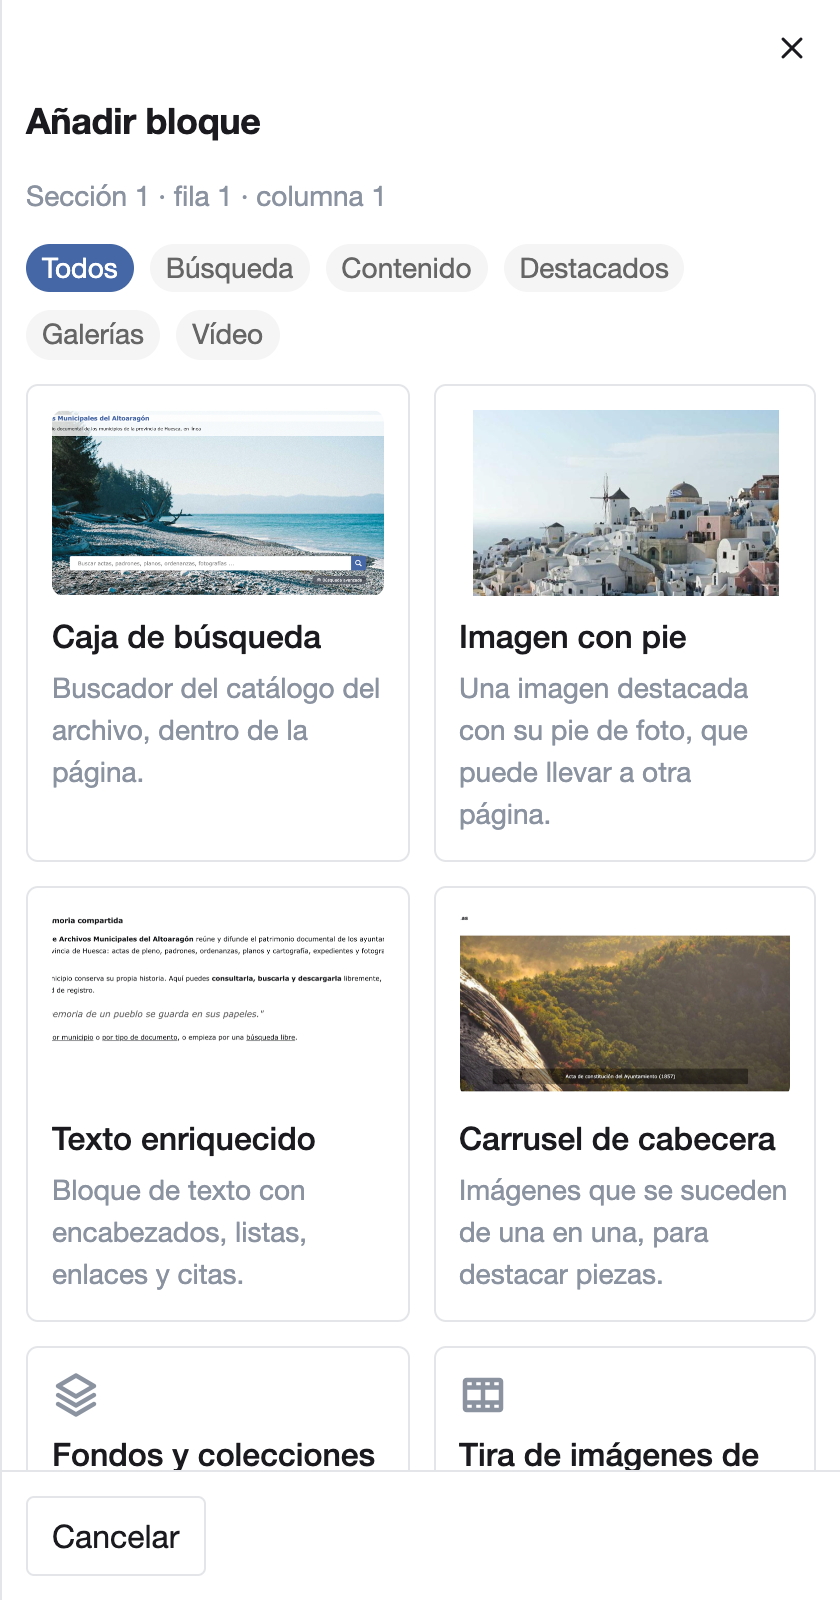
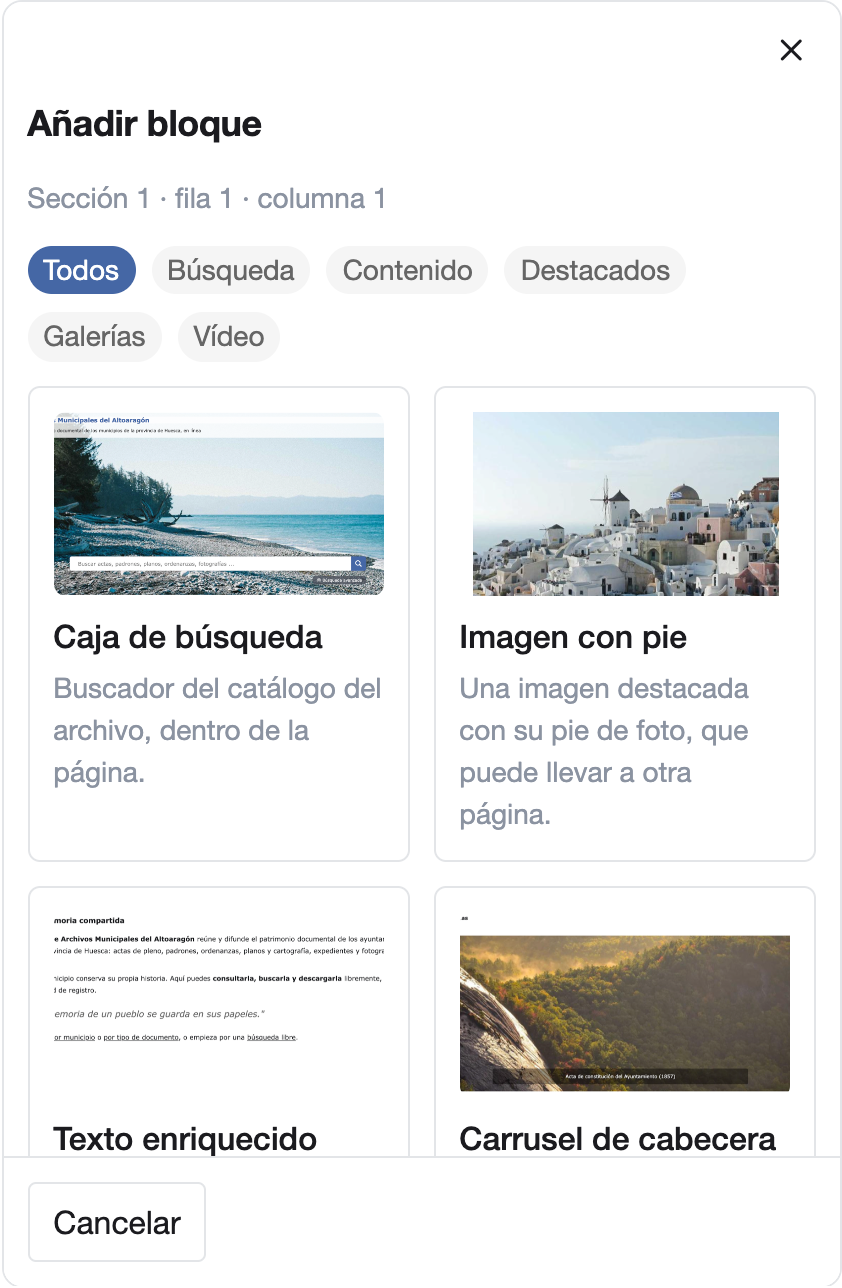
docs(user-guide): capturas del portal con el recorte nuevo y pintadas a su anchura
Las capturas del portal se regeneran con nuba-capture y cada línea de imagen
lleva el atributo width con la anchura CSS de su captura. El texto alternativo
de nueve imágenes describe solo lo que muestra el encuadre nuevo.

diff --git a/docs/user-guide/diffusion-portal/publish.md b/docs/user-guide/diffusion-portal/publish.md
@@ -18,7 +18,7 @@ ordenador.
 3. Arriba, pulsa **Móvil**, **Tableta** o **Escritorio**. La página se dibuja con el ancho de ese dispositivo: 375,
    768 o 1280 píxeles. La pestaña se abre en **Escritorio**.
 
-    ![Los botones Móvil, Tableta y Escritorio de la vista previa, con Escritorio activo.](../../assets/screenshots/es/diffusion-portal/publish/device-preview.png)
+    ![Los botones Móvil, Tableta y Escritorio de la vista previa, con Escritorio activo.](../../assets/screenshots/es/diffusion-portal/publish/device-preview.png){ width="251" }
 
 4. Si haces más cambios en el editor, recarga la pestaña de la vista previa para verlos. Al recargarla, vuelve a
    **Escritorio**.
@@ -36,7 +36,7 @@ buscar como lo haría un visitante, publica la página y abre su dirección púb
 2. Pulsa **Publicar**, en la barra de arriba del editor.
 3. Sale el aviso «¡Publicado! Los visitantes ya ven tus cambios.».
 
-    ![El aviso «¡Publicado!» y el estado Publicada de la página.](../../assets/screenshots/es/diffusion-portal/publish/published.png)
+    ![El aviso «¡Publicado!», con el texto «Los visitantes ya ven tus cambios».](../../assets/screenshots/es/diffusion-portal/publish/published.png){ width="415" }
 
 4. El estado de la página pasa a **Publicada** y el botón **Publicar** desaparece hasta que hagas otro cambio.
 
@@ -44,11 +44,11 @@ buscar como lo haría un visitante, publica la página y abre su dirección púb
 
 1. Pulsa **Más acciones**, el último botón de la barra del editor, a la derecha de **Vista previa**.
 
-    ![El menú Más acciones desplegado.](../../assets/screenshots/es/diffusion-portal/publish/more-actions.png)
+    ![El menú Más acciones desplegado.](../../assets/screenshots/es/diffusion-portal/publish/more-actions.png){ width="367" }
 
 2. Pulsa **Copiar dirección pública**. Sale el aviso «Dirección pública copiada.».
 
-    ![El aviso «Dirección pública copiada.».](../../assets/screenshots/es/diffusion-portal/publish/address-copied.png)
+    ![El aviso «Dirección pública copiada.».](../../assets/screenshots/es/diffusion-portal/publish/address-copied.png){ width="276" }
 
 3. Pega la dirección donde quieras compartirla o enlazarla.
 

diff --git a/docs/user-guide/diffusion-portal/index.md b/docs/user-guide/diffusion-portal/index.md
@@ -25,16 +25,16 @@ Para editar el portal necesitas una cuenta con permiso de administración del po
 1. Entra en nubarchiva y pulsa **Administración** en el menú superior.
 2. En el apartado **General**, pulsa **Portal de Difusión**. Se abre la lista de **Páginas**.
 
-    ![Lista de Páginas del Portal de Difusión.](../../assets/screenshots/es/diffusion-portal/index/pages-list.png)
+    ![Lista de Páginas del Portal de Difusión.](../../assets/screenshots/es/diffusion-portal/index/pages-list.png){ width="638" }
 
 3. Para crear una página, pulsa **Nueva página**, escribe su **Título** y pulsa **Crear página**. La **Ruta** se
    propone a partir del título.
 
-    ![Ventana Nueva página, con el Título escrito y la Ruta propuesta.](../../assets/screenshots/es/diffusion-portal/index/new-page.png)
+    ![Ventana Nueva página, con el Título escrito y la Ruta propuesta.](../../assets/screenshots/es/diffusion-portal/index/new-page.png){ width="640" }
 
 4. Pulsa el título de una página para abrir el **Editor de página del portal**.
 
-    ![Editor de página del portal, sin bloques.](../../assets/screenshots/es/diffusion-portal/index/page-editor.png)
+    ![Editor de página del portal, sin bloques.](../../assets/screenshots/es/diffusion-portal/index/page-editor.png){ width="736" }
 
 ## Cómo funciona el editor
 
@@ -42,7 +42,7 @@ Para editar el portal necesitas una cuenta con permiso de administración del po
   la derecha: arriba, las que definen su contenido; debajo, las demás, en grupos plegados
   ([Ver y cambiar las demás opciones de un bloque](block-options.md)).
 
-    ![Catálogo de bloques que se abre con Añadir bloque.](../../assets/screenshots/es/diffusion-portal/index/block-catalog.png)
+    ![Catálogo de bloques que se abre con Añadir bloque.](../../assets/screenshots/es/diffusion-portal/index/block-catalog.png){ width="421" }
 
 - **Cambiar un bloque**: pulsa en cualquier punto del bloque para volver a abrir sus opciones
   ([Seleccionar un bloque](select-block.md)).

diff --git a/docs/user-guide/diffusion-portal/select-block.md b/docs/user-guide/diffusion-portal/select-block.md
@@ -16,7 +16,7 @@ en las dos vistas del editor: **Lienzo**, la vista con que se abre, y **Visual**
    bloque.
 4. La ficha seleccionada queda resaltada, para que sepas qué bloque estás cambiando.
 
-    ![Un bloque seleccionado en el lienzo, resaltado y con su panel de propiedades a la derecha.](../../assets/screenshots/es/diffusion-portal/select-block/block-selected.png)
+    ![La ficha del bloque Imagen con pie seleccionado en el lienzo, resaltada, con los botones de subir, bajar, duplicar y eliminar.](../../assets/screenshots/es/diffusion-portal/select-block/block-selected.png){ width="823" }
 
 Con el teclado, lleva el foco a la ficha con la tecla Tab y pulsa Intro.
 
@@ -28,7 +28,7 @@ Un bloque que acabas de añadir con **Añadir bloque** queda ya seleccionado.
 2. Pulsa sobre el bloque, en cualquier punto. Un bloque que aún no tiene contenido se ve como una franja con borde de
    puntos, y también responde.
 
-    ![Vista Visual con una Imagen con pie sin contenido seleccionada: se ve como una franja fina, con su panel de propiedades a la derecha.](../../assets/screenshots/es/diffusion-portal/select-block/visual-view.png)
+    ![Vista Visual: la franja fina de una Imagen con pie sin contenido, seleccionada y con su barra de acciones.](../../assets/screenshots/es/diffusion-portal/select-block/visual-view.png){ width="728" }
 
 3. Como en el lienzo, el panel muestra «Cargando propiedades…» y después las opciones. El bloque queda resaltado.
 
@@ -40,4 +40,4 @@ imagen, se prueba en **Vista previa**.
 Pulsa la X de la esquina superior derecha del panel, **Cerrar el panel de propiedades**. El panel se cierra y el
 bloque deja de estar resaltado.
 
-![El editor con el panel de propiedades cerrado y ningún bloque resaltado.](../../assets/screenshots/es/diffusion-portal/select-block/panel-closed.png)
+![El editor con el panel de propiedades cerrado y ningún bloque resaltado.](../../assets/screenshots/es/diffusion-portal/select-block/panel-closed.png){ width="738" }

diff --git a/docs/user-guide/diffusion-portal/choose-images.md b/docs/user-guide/diffusion-portal/choose-images.md
@@ -22,7 +22,7 @@ retocada, va mejor en **Imágenes del portal**, para no mezclarlo con los origin
 3. Pulsa la pestaña del origen: **Digitalizaciones** o **Imágenes del portal**. La pestaña muestra sus carpetas a la
    izquierda y su contenido a la derecha.
 
-    ![El diálogo Elegir imagen con la pestaña Imágenes del portal activa y sus imágenes.](../../assets/screenshots/es/diffusion-portal/choose-images/select-resource.png)
+    ![El diálogo Elegir imagen con la pestaña Imágenes del portal activa y sus imágenes.](../../assets/screenshots/es/diffusion-portal/choose-images/select-resource.png){ width="739" }
 
 4. Entra en la carpeta de la imagen. Con **Vista de lista** ves cada imagen en miniatura junto a su nombre; con
    **Vista de mosaico**, más grande.
@@ -184,12 +184,12 @@ Las imágenes del portal también se suben y se organizan fuera del editor:
 
 1. Pulsa **Administración** en el menú superior y, en el apartado **General**, pulsa **Imágenes del portal**.
 
-    ![Imágenes del portal, con tres imágenes subidas.](../../assets/screenshots/es/diffusion-portal/choose-images/portal-images.png)
+    ![Las tres imágenes subidas a Imágenes del portal.](../../assets/screenshots/es/diffusion-portal/choose-images/portal-images.png){ width="638" }
 
 2. Pulsa **Subir**. En la ventana **Subir ficheros**, pulsa **Subir ficheros** y elige las imágenes de tu equipo, o
    pulsa **Subir carpeta** y elige una carpeta.
 
-    ![La ventana Subir ficheros de Imágenes del portal.](../../assets/screenshots/es/diffusion-portal/choose-images/upload-window.png)
+    ![La ventana Subir ficheros de Imágenes del portal.](../../assets/screenshots/es/diffusion-portal/choose-images/upload-window.png){ width="739" }
 
 3. Las imágenes aparecen en la lista. Las de una carpeta, en una carpeta con su nombre. Cierra la ventana.
 

diff --git a/docs/user-guide/diffusion-portal/block-options.md b/docs/user-guide/diffusion-portal/block-options.md
@@ -14,11 +14,11 @@ bloque puedes dejarlas como están.
 2. Debajo de las opciones de contenido están los grupos, cada uno con su nombre y una flecha. En una **Imagen con
    pie**, por ejemplo, son **Imagen**, **Textos**, **Enlace** y **Otros ajustes**.
 
-    ![Opciones de contenido de una Imagen con pie y, debajo, sus cuatro grupos plegados.](../../assets/screenshots/es/diffusion-portal/block-options/groups-folded.png)
+    ![Los cuatro grupos plegados de una Imagen con pie: Imagen, Textos, Enlace y Otros ajustes.](../../assets/screenshots/es/diffusion-portal/block-options/groups-folded.png){ width="418" }
 
 3. Pulsa el nombre del grupo. Se despliega con sus opciones y la ayuda de cada una.
 
-    ![El grupo Enlace desplegado, con sus opciones.](../../assets/screenshots/es/diffusion-portal/block-options/group-open.png)
+    ![El grupo Enlace desplegado, con sus opciones.](../../assets/screenshots/es/diffusion-portal/block-options/group-open.png){ width="419" }
 
 4. Para plegarlo, vuelve a pulsar su nombre.
 
@@ -57,7 +57,7 @@ La cabecera de cada grupo dice qué opciones suyas tienen un valor distinto del 
 - Con hasta tres opciones cambiadas, las nombra. Por ejemplo: «Con cambios: Tiempo entre imágenes (milisegundos),
   Detener al pasar el ratón».
 
-    ![Cabecera de un grupo con una opción cambiada: «Con cambios:» y su nombre.](../../assets/screenshots/es/diffusion-portal/block-options/changes-header.png)
+    ![Cabecera de un grupo con una opción cambiada: «Con cambios:» y su nombre.](../../assets/screenshots/es/diffusion-portal/block-options/changes-header.png){ width="401" }
 
 - Con más de tres, dice cuántas son, por ejemplo «Con 4 cambios». Para ver sus nombres, deja el ratón sobre ese
   texto.

diff --git a/docs/user-guide/diffusion-portal/carousel.md b/docs/user-guide/diffusion-portal/carousel.md
@@ -16,7 +16,7 @@ Las imágenes se eligen, o se suben desde tu equipo, en el diálogo de cada elem
 2. Pulsa **Añadir bloque** y elige **Carrusel de cabecera**. Sus opciones se abren a la derecha.
 3. Pasa a la pestaña **Elementos** y pulsa **Añadir elemento**.
 
-    ![La pestaña Elementos de un Carrusel de cabecera, con el formulario de un elemento nuevo.](../../assets/screenshots/es/diffusion-portal/carousel/items-tab.png)
+    ![El formulario de un elemento nuevo en la pestaña Elementos.](../../assets/screenshots/es/diffusion-portal/carousel/items-tab.png){ width="394" }
 
 4. En **Imagen**, pulsa **Elegir imagen…** y elige la imagen en el diálogo
    ([cómo elegirla](choose-images.md#elegir-una-imagen)). La imagen es obligatoria.
@@ -27,7 +27,7 @@ Las imágenes se eligen, o se suben desde tu equipo, en el diálogo de cada elem
    «Elemento 1 (sin título)», con su posición. Sin imagen, no se guarda y el mensaje te lo dice
    ([La imagen de un elemento es obligatoria](save-changes.md#la-imagen-de-un-elemento-es-obligatoria)).
 
-    ![La pestaña Elementos con el elemento guardado, su título y su miniatura.](../../assets/screenshots/es/diffusion-portal/carousel/items-list.png)
+    ![El elemento guardado, con su título y su miniatura.](../../assets/screenshots/es/diffusion-portal/carousel/items-list.png){ width="395" }
 
 8. Repite los pasos 3 a 7 con cada imagen. Con **Subir** y **Bajar** cambias su orden y con **Eliminar** la quitas.
 

diff --git a/docs/user-guide/diffusion-portal/save-changes.md b/docs/user-guide/diffusion-portal/save-changes.md
@@ -16,7 +16,7 @@ si se ha guardado.
 4. Sal del campo con la tecla Tab o pulsando fuera de él.
 5. A la izquierda del estado de la página aparece «Guardando…» y, enseguida, «Guardado».
 
-    ![El aviso «Guardado» junto al estado de la página.](../../assets/screenshots/es/diffusion-portal/save-changes/saved.png)
+    ![El aviso «Guardado» junto al estado de la página.](../../assets/screenshots/es/diffusion-portal/save-changes/saved.png){ width="241" }
 
 Si recargas la página, el cambio sigue ahí.
 
@@ -42,7 +42,7 @@ de una **Imagen con pie** es obligatorio. Si lo dejas vacío, pasa esto:
   con pie» no se ha guardado: revisa «Pie de foto». Es un dato obligatorio.». El mensaje se cierra solo a los pocos
   segundos. También puedes cerrarlo con su botón **Cerrar**.
 
-    ![Mensaje de un bloque con imagen y el Pie de foto vacío, que no se ha guardado.](../../assets/screenshots/es/diffusion-portal/save-changes/not-saved.png)
+    ![El mensaje de que el bloque «Imagen con pie» no se ha guardado y de que revises «Pie de foto».](../../assets/screenshots/es/diffusion-portal/save-changes/not-saved.png){ width="420" }
 
 Si el campo está en un grupo plegado, el grupo no se abre solo: su cabecera lo nombra. Por ejemplo, si escribes
 `500` en **Tiempo entre imágenes (milisegundos)** de un **Carrusel de cabecera**, la cabecera del grupo **Paso de las

diff --git a/docs/user-guide/diffusion-portal/search-box.md b/docs/user-guide/diffusion-portal/search-box.md
@@ -47,7 +47,7 @@ Para añadir uno, pulsa el grupo **Filtros**:
      tienen ninguna.
    - **Nivel de descripción**: en **Valor**, el número de ese nivel en tu archivo.
 
-    ![El grupo Filtros de una Caja de búsqueda con «Elemento 1» ya relleno: el texto del botón, Buscar por Lugar y el valor.](../../assets/screenshots/es/diffusion-portal/search-box/filters.png)
+    ![El «Elemento 1» de los filtros de una Caja de búsqueda ya relleno: el texto del botón, Buscar por Lugar y el valor.](../../assets/screenshots/es/diffusion-portal/search-box/filters.png){ width="401" }
 
 5. Sal del campo. Mientras al elemento le falte un dato obligatorio, al escribir en él sale un aviso que nombra el
    campo, el número del elemento y la lista.

diff --git a/docs/user-guide/diffusion-portal/image-zoom.md b/docs/user-guide/diffusion-portal/image-zoom.md
@@ -37,7 +37,7 @@ Las otras opciones de **Al pulsar la imagen** son:
 1. Pulsa **Vista previa** y, en la pestaña que se abre, pulsa la imagen.
 2. La imagen se abre ampliada sobre la página, con el pie de foto debajo.
 
-    ![La imagen ampliada en la vista previa, con su pie de foto debajo.](../../assets/screenshots/es/diffusion-portal/image-zoom/zoomed.png)
+    ![La imagen ampliada en la vista previa, con su pie de foto debajo.](../../assets/screenshots/es/diffusion-portal/image-zoom/zoomed.png){ width="416" }
 
 3. Para cerrarla, pulsa **Cerrar**, pulsa la tecla Esc o haz clic fuera de la imagen.
 4. Cuando esté a tu gusto, vuelve al editor y pulsa **Publicar**.
